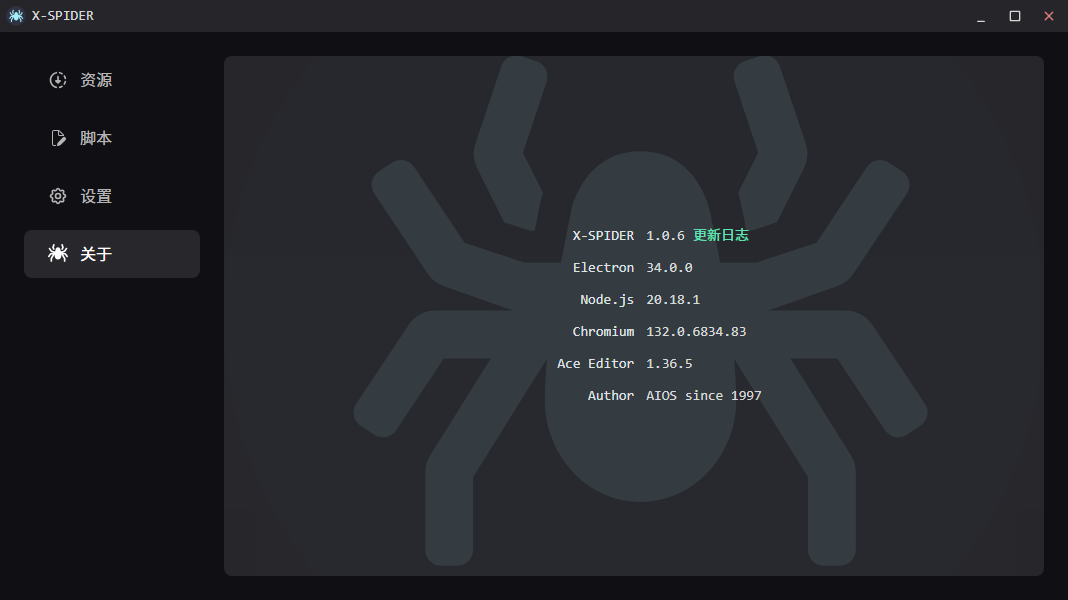
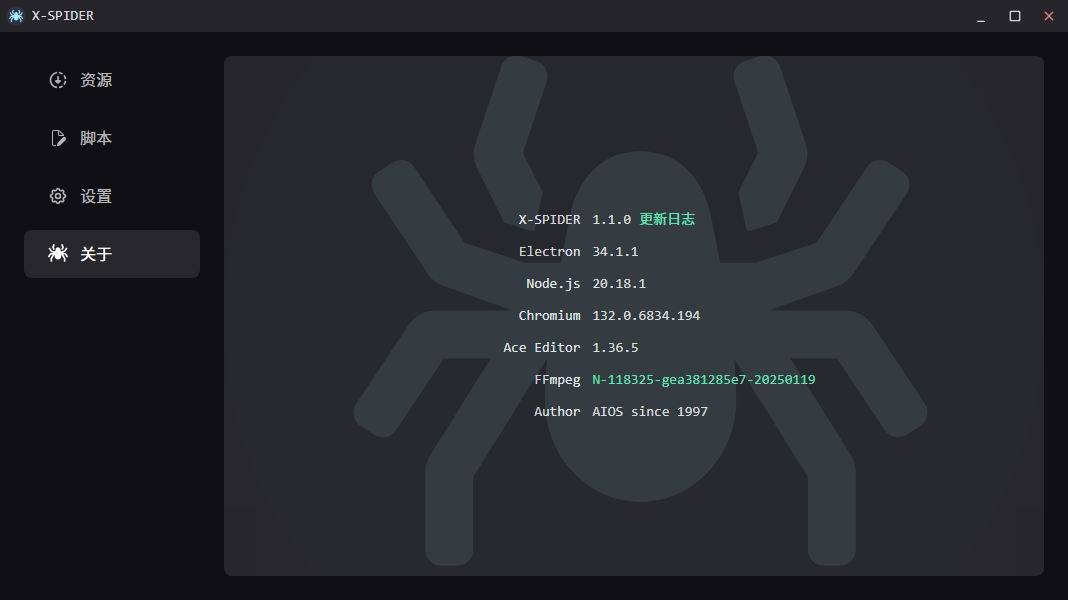
1.1.0

Changed region(s): [[0.4635, 0.36, 0.7725, 0.69]]

diff --git a/CHANGELOG.md b/CHANGELOG.md
@@ -1,5 +1,18 @@
 # 更新日志
 
+> 脚本开发环境相关更新内容详见编辑页开发说明
+
+## 1.1.0丨2025-02-08
+♥ 资源详情支持预览视频封面  
+♥ 脚本增加 M3U8 解析方法 `ParseM3U8`  
+♥ 脚本增加 FFmpeg 调用方法 `RunFFmpeg`  
+♥ 脚本方法 `CreateTask` 支持传入已下载文件及设置手动完成模式  
+🔧 优化部分视觉效果  
+🔧 修复特殊任务名称导致资源页封面不显示问题  
+🔧 修复脚本编辑保存后折叠状态重置的问题  
+🔧 修复脚本新建后默认置顶的问题  
+⚠ 脚本参数会对输入内容进行首尾空格移除操作  
+
 ## 1.0.6丨2025-01-21
 ♥ 增加脚本置顶功能  
 ♥ 增加脚本参数必填配置  
